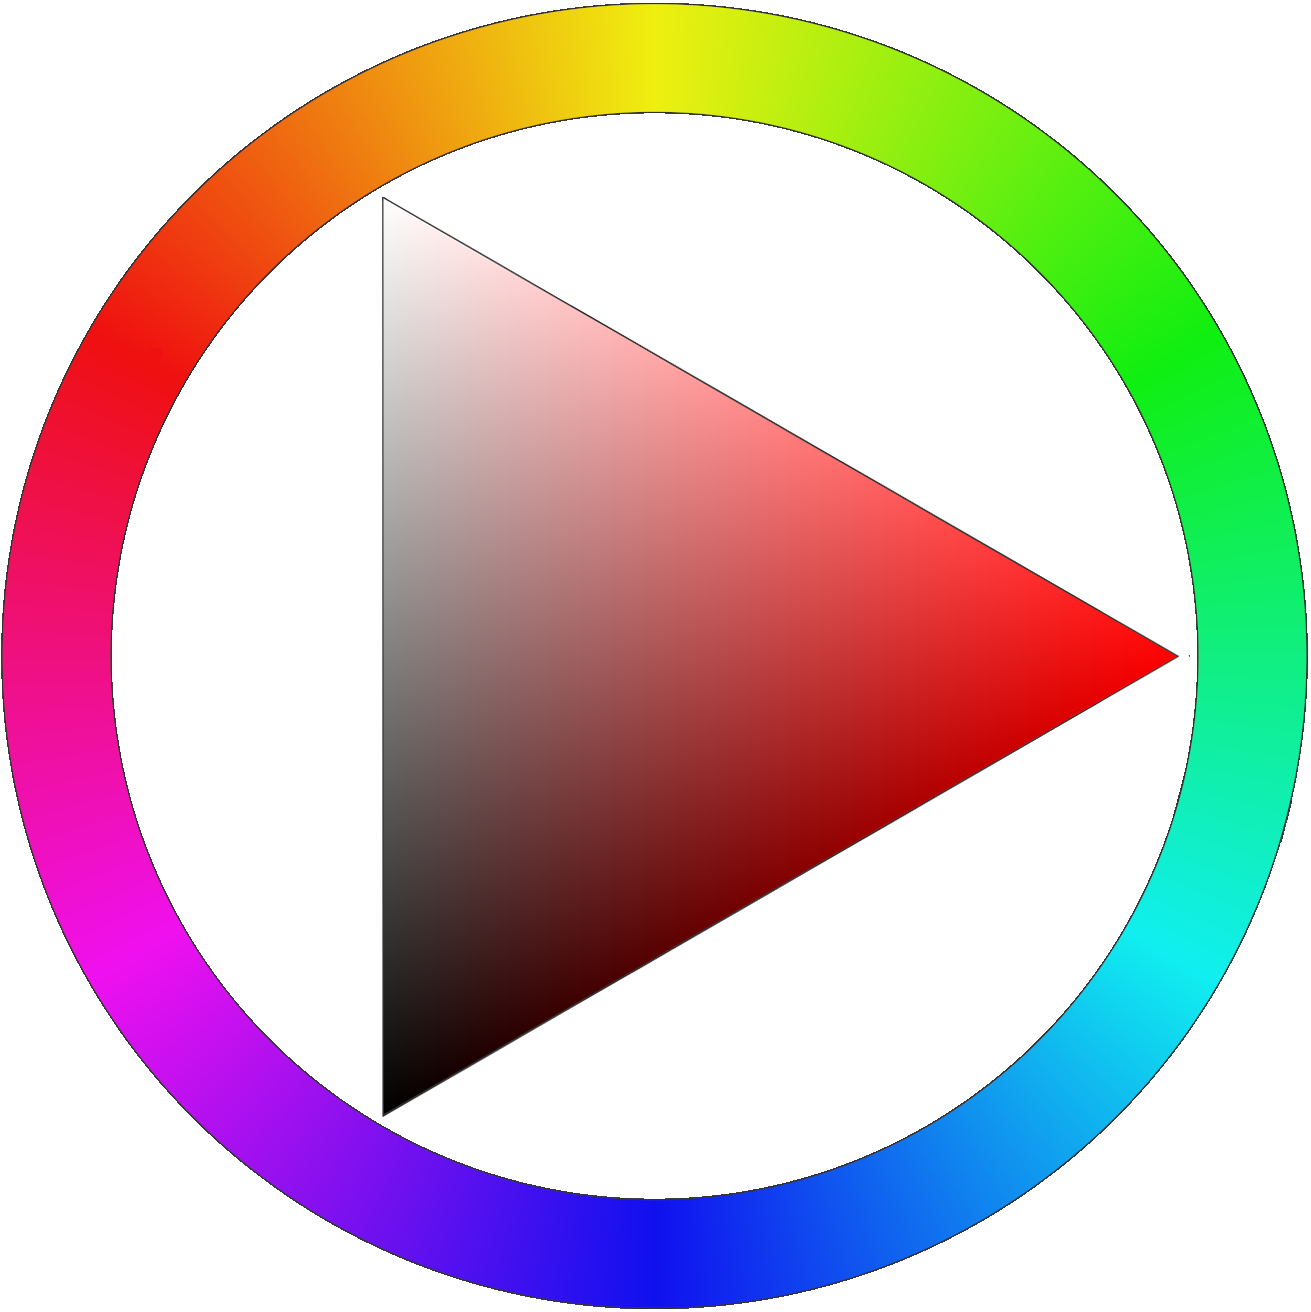
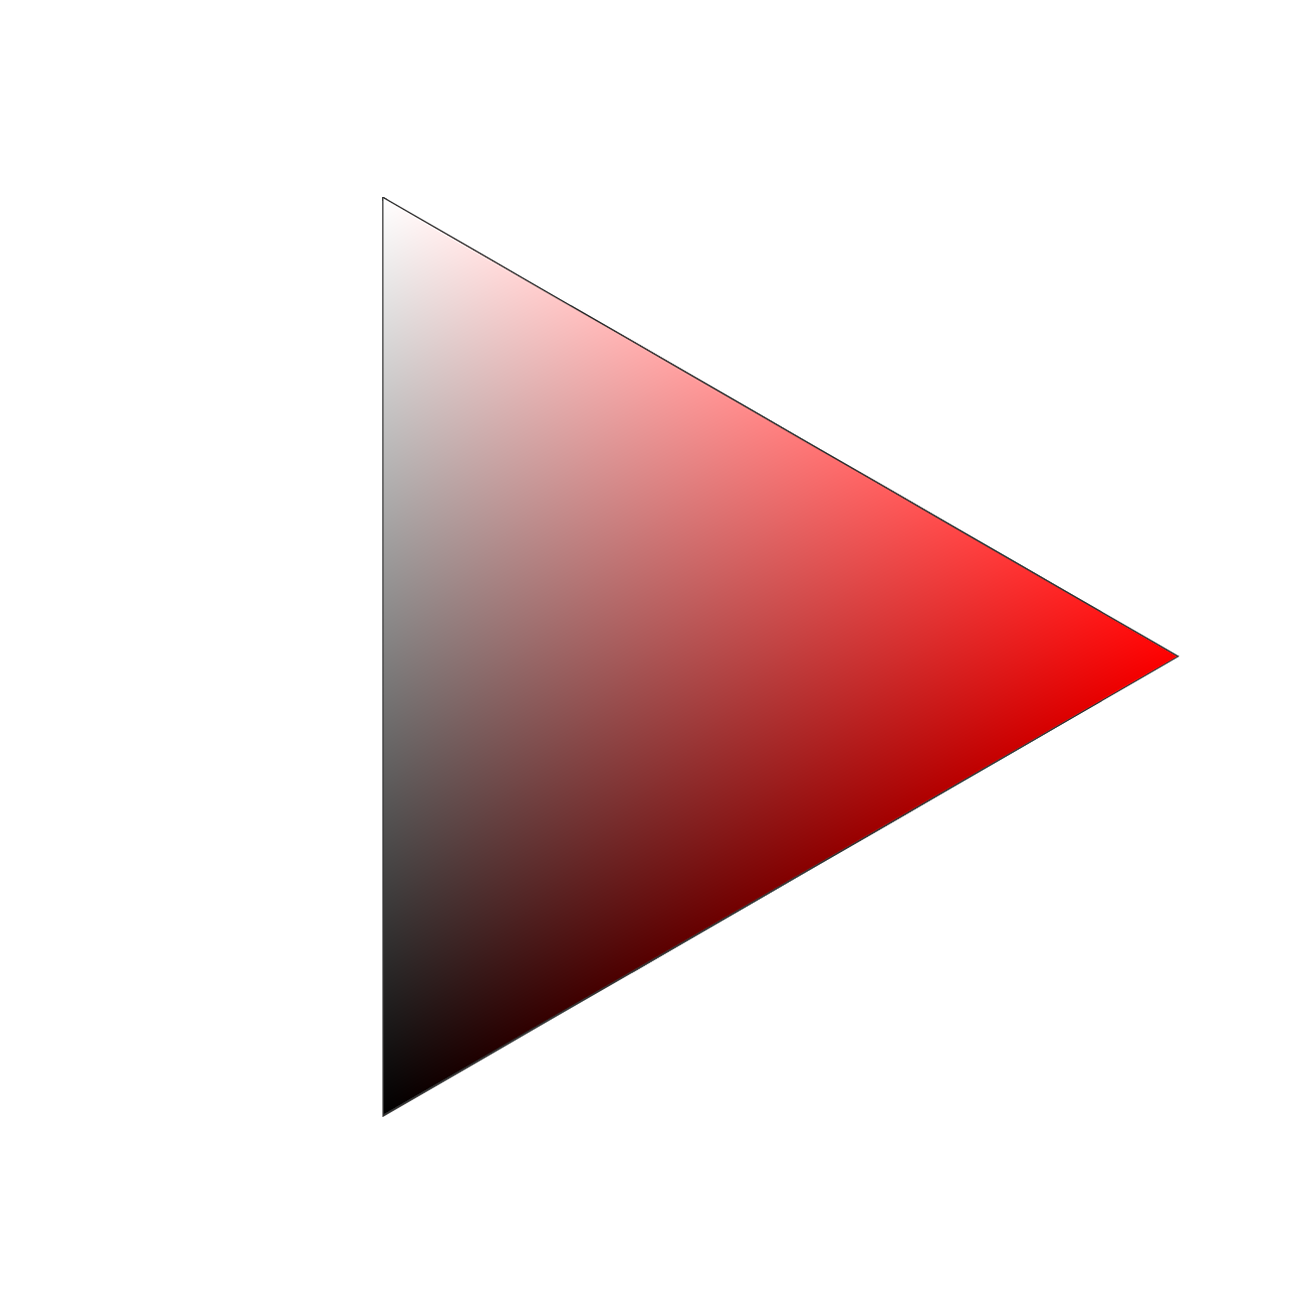
fix import

Changed region(s): [[0.0, 0.0, 1.0, 1.0]]

diff --git a/Components/Canvas/SAMCanvas.js b/Components/Canvas/SAMCanvas.js
@@ -1,6 +1,6 @@
 import React, { useCallback, useEffect, useRef, useState } from 'react';
-import { CircleIndicator } from '../Color/picker';
 import { calculateCanvasSize } from '../../utils/canvas';
+import { CircleIndicator } from '../Color/PositionIndicators';
 
 const SAMCanvas = ({ canvasRef, image, reset, maskMode = true,
     SAMImages = [], SAMEnableIndex = -1, SAMPositions, setSAMPositions, SAMIgnorePositions, setSAMIgnorePositions,